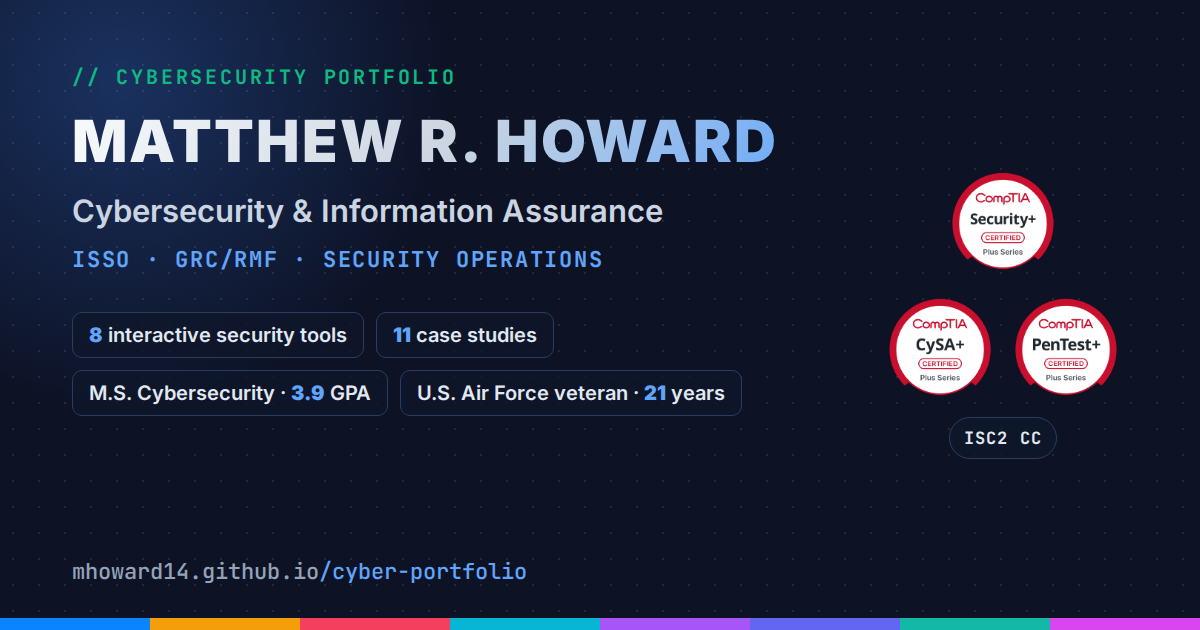
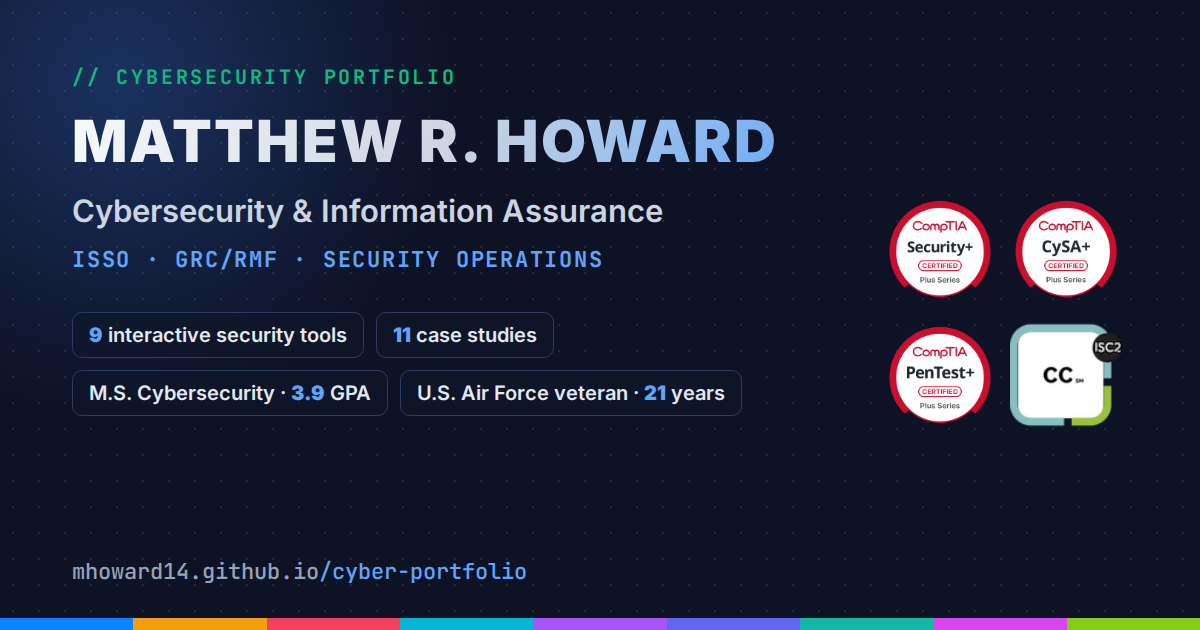
Fix the link preview card: 9 tools and all four certification badges
The preview image and its alt text still said "8 interactive security
tools" from before the Packet Analysis Lab was added. The card now says
9, adds the Packet Lab's lime segment to the tool-colour strip, and
shows the ISC2 CC badge image in a 2x2 grid with the CompTIA badges
instead of the "ISC2 CC" text pill. The og:image and twitter:image
alt text now match the card.

Claude-Session: https://claude.ai/code/session_01EZYZj9cVuTUa9cRQUcdYi9

diff --git a/src/index.html b/src/index.html
@@ -16,12 +16,12 @@
   <meta property="og:image" content="https://mhoward14.github.io/cyber-portfolio/og-image.png">
   <meta property="og:image:width" content="1200">
   <meta property="og:image:height" content="630">
-  <meta property="og:image:alt" content="Matthew R. Howard, Cybersecurity Portfolio: Cybersecurity and Information Assurance; ISSO, GRC/RMF, Security Operations; 8 interactive security tools and 11 case studies.">
+  <meta property="og:image:alt" content="Matthew R. Howard, Cybersecurity Portfolio: Cybersecurity and Information Assurance; ISSO, GRC/RMF, Security Operations; 9 interactive security tools and 11 case studies; CompTIA Security+, CySA+ and PenTest+ and ISC2 CC badges.">
   <meta name="twitter:card" content="summary_large_image">
   <meta name="twitter:title" content="Matthew Howard | Cybersecurity Portfolio">
   <meta name="twitter:description" content="U.S. Air Force veteran and M.S. Cybersecurity & Information Assurance graduate. Interactive GRC, zero-trust, and incident-response tools alongside GRC/RMF, security architecture, cloud security, penetration testing, and security operations project work.">
   <meta name="twitter:image" content="https://mhoward14.github.io/cyber-portfolio/og-image.png">
-  <meta name="twitter:image:alt" content="Matthew R. Howard, Cybersecurity Portfolio: Cybersecurity and Information Assurance; ISSO, GRC/RMF, Security Operations; 8 interactive security tools and 11 case studies.">
+  <meta name="twitter:image:alt" content="Matthew R. Howard, Cybersecurity Portfolio: Cybersecurity and Information Assurance; ISSO, GRC/RMF, Security Operations; 9 interactive security tools and 11 case studies; CompTIA Security+, CySA+ and PenTest+ and ISC2 CC badges.">
   <link rel="icon" type="image/x-icon" href="favicon.ico">
   <meta name="referrer" content="strict-origin-when-cross-origin">
   <!-- Content Security Policy. GitHub Pages can't send response headers, so
